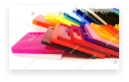
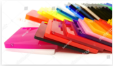
update

diff --git a/Nature-Lessons/My_world/games/N-1366-71.html b/Nature-Lessons/My_world/games/N-1366-71.html
@@ -109,7 +109,7 @@
             <div class="col-2 N-1-draggeble_element" data-title="5">
                 <div class="nature-material-full-col-2 N-games-child" data-title="5">
                   <div class="myimg">
-                    <img class="nature-material-row-pic" src="../../../img/gakvetilebi/buneba/nature-acrylic-little.png" style="width:100%" alt="">
+                    <img class="nature-material-row-pic h-initial" src="../../../img/gakvetilebi/buneba/nature-acrylic-little.png" style="width:100%" alt="">
                     </div>
                   <p>ლითონი</p>
                 </div>
@@ -125,7 +125,7 @@
             <div class="col-2 N-1-draggeble_element" data-title="3">
               <div class="nature-material-full-col-2 N-games-child" data-title="3">
                   <div class="myimg">
-                    <img class="nature-material-row-pic" src="../../../img/gakvetilebi/buneba/nature-plastic-cardboard-little.png" style="width:100%" alt="">
+                    <img class="nature-material-row-pic h-initial" src="../../../img/gakvetilebi/buneba/nature-plastic-cardboard-little.png" style="width:100%" alt="">
                   </div>
                 <p>ხე</p>
               </div>
@@ -143,7 +143,7 @@
             <div class="col-2 N-1-draggeble_element" data-title="4">
                 <div class="nature-material-full-col-2 N-games-child" data-title="2">
                     <div class="myimg">
-                      <img class="nature-material-row-pic" src="../../../img/gakvetilebi/buneba/nature-wooden-cubes-little.png" style="width:100%" alt="">
+                      <img class="nature-material-row-pic h-initial" src="../../../img/gakvetilebi/buneba/nature-wooden-cubes-little.png" style="width:100%" alt="">
                     </div>
                   <p>რეზინა</p>
                 </div>
@@ -159,7 +159,7 @@
             <div class="col-2 N-1-draggeble_element" data-title="2">
                 <div class="nature-material-full-col-2 N-games-child" data-title="4">
                     <div class="myimg">
-                      <img class="nature-material-row-pic" src="../../../img/gakvetilebi/buneba/nature-blue-rubber-little.png" style="width:100%" alt="">
+                      <img class="nature-material-row-pic h-initial" src="../../../img/gakvetilebi/buneba/nature-blue-rubber-little.png" style="width:100%" alt="">
                     </div>
                   <p>ქაღალდი და მუყაო</p>
                 </div>
@@ -176,7 +176,7 @@
             <div class="col-2 N-1-draggeble_element" data-title="1">
               <div class="nature-material-full-col-2 N-games-child" data-title="1">
                 <div class="myimg">
-                  <img class="nature-material-row-pic" src="../../../img/gakvetilebi/buneba/nature-robot-toy.png" style="width:100%" alt="">
+                  <img class="nature-material-row-pic h-initial" src="../../../img/gakvetilebi/buneba/nature-robot-toy.png" style="width:100%" alt="">
                 </div>
                 <p>პლასტმასი</p>
               </div>

diff --git a/scss/style.css b/scss/style.css
@@ -734,6 +734,10 @@ body {
   height: 100%;
 }
 
+.h-initial {
+  height: initial !important;
+}
+
 .text-center {
   text-align: center;
 }
@@ -6842,4 +6846,3 @@ canvas {
   top: 0;
   width: 100%;
 }
-/*# sourceMappingURL=style.css.map */

diff --git a/scss/Modules/_base.scss b/scss/Modules/_base.scss
@@ -85,6 +85,10 @@ body {
   height: 100%;
 }
 
+.h-initial {
+  height: initial !important;
+}
+
 .text-center {
   text-align: center;
 }
